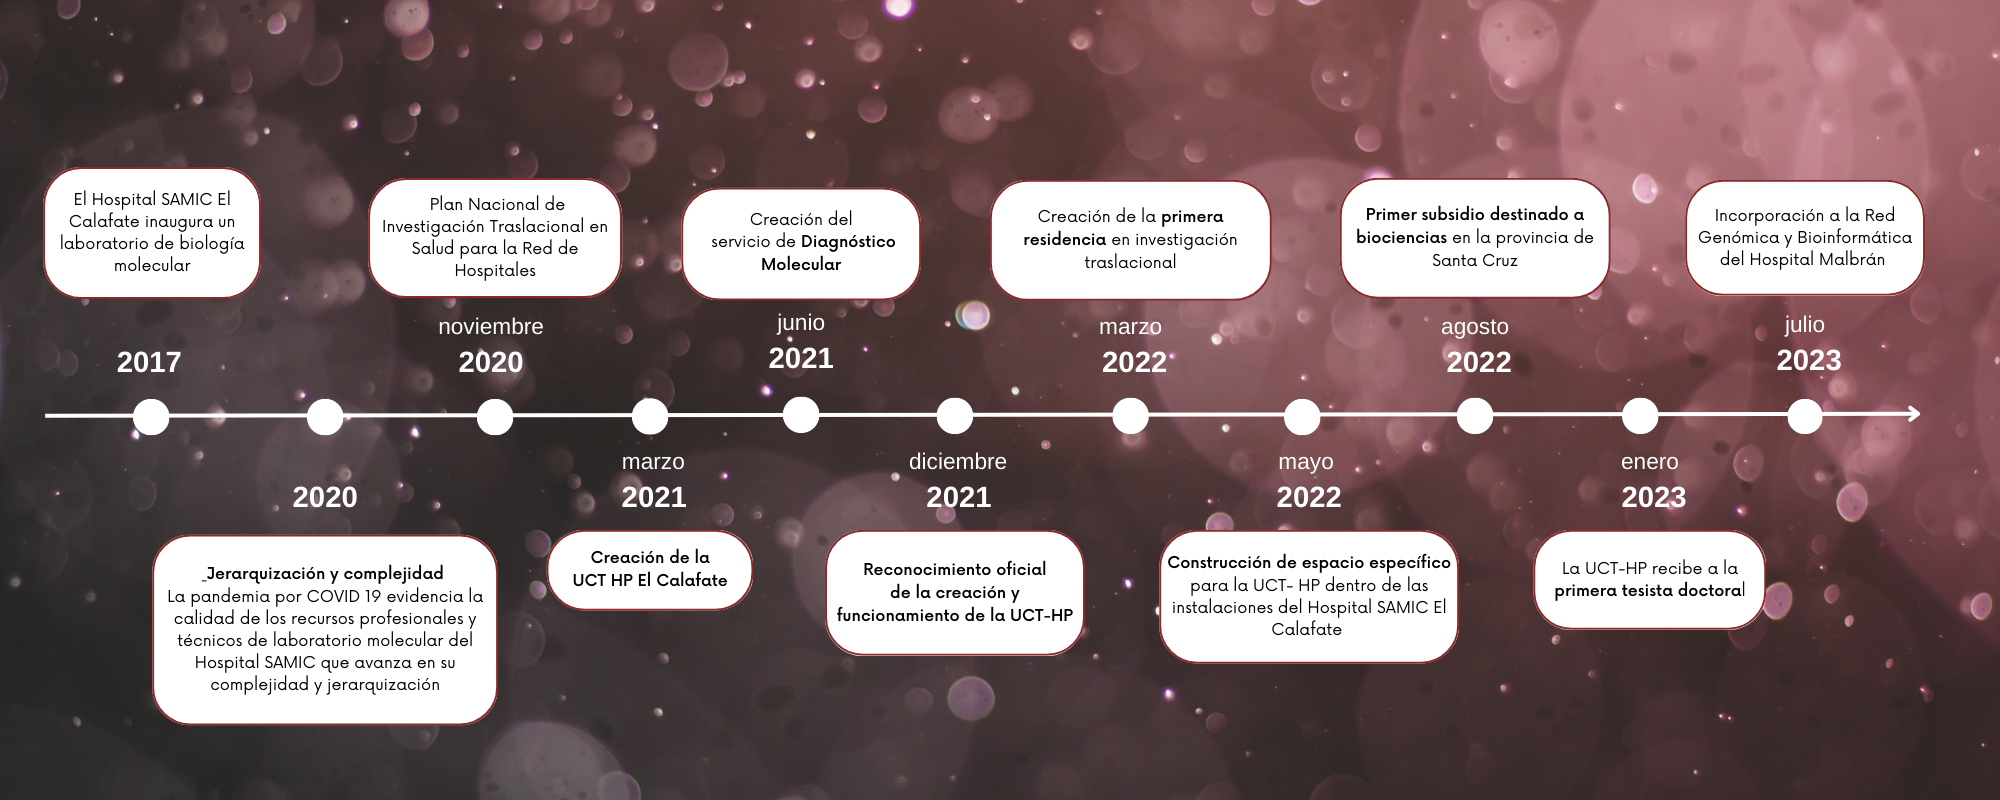
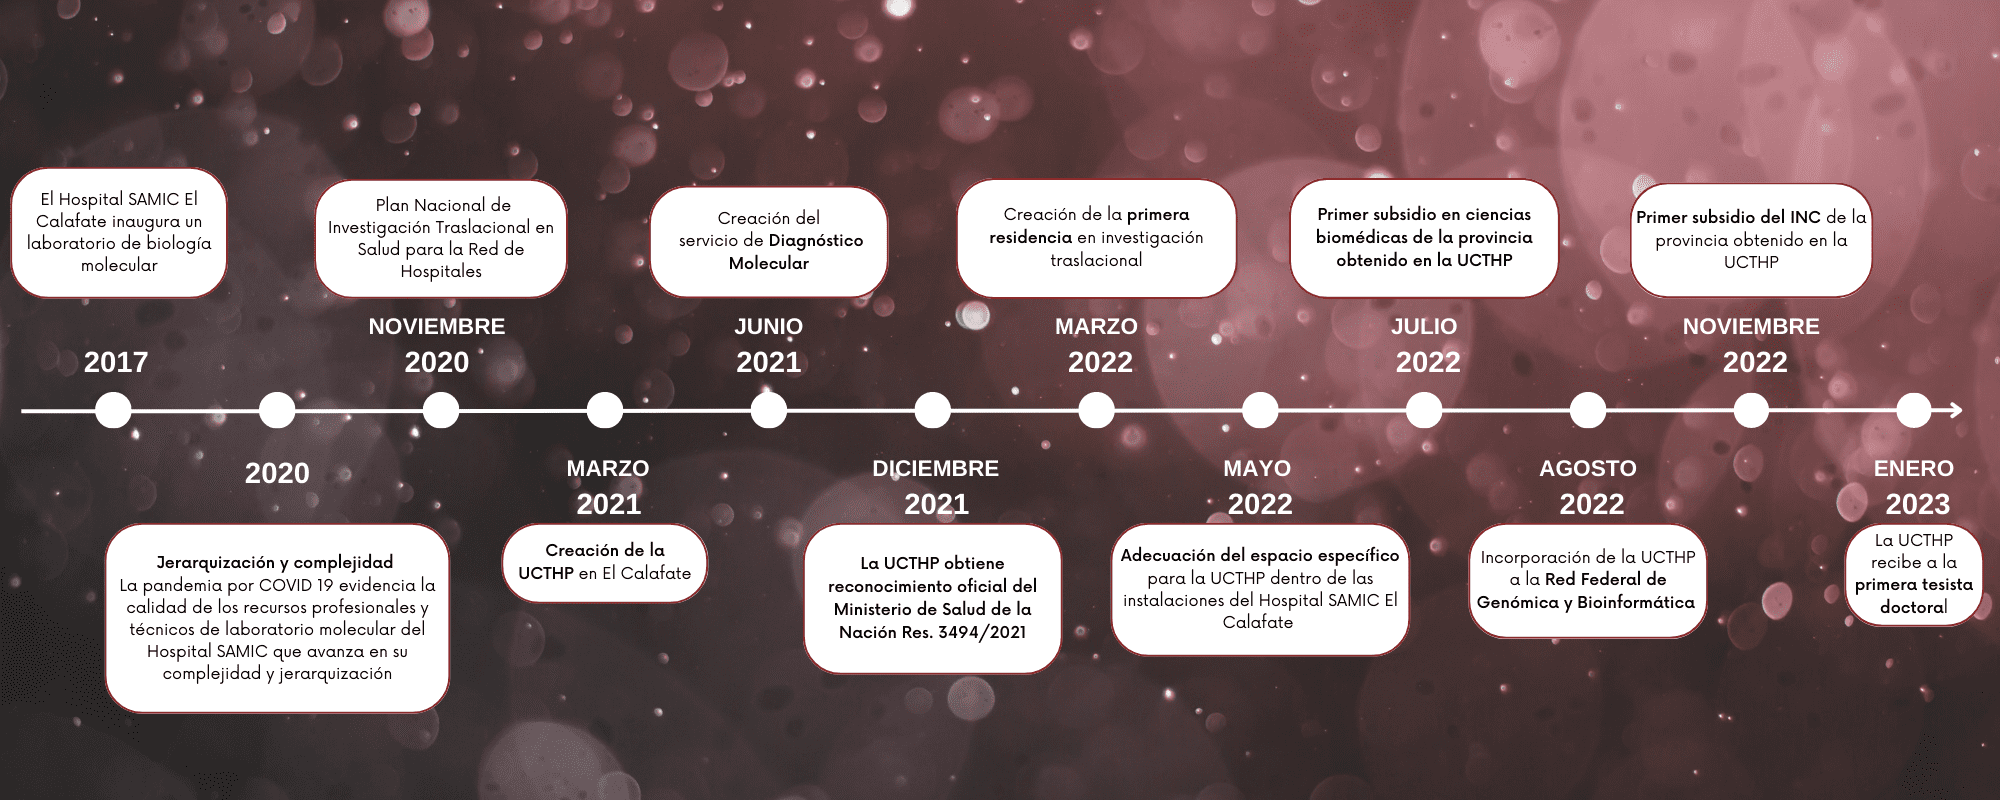
actualizaciones

Changed region(s): [[0.0, 0.1875, 0.992, 0.9062], [0.682, 0.375, 0.775, 0.4688], [0.434, 0.0, 0.465, 0.0312]]

diff --git a/src/data/data.js b/src/data/data.js
@@ -33,8 +33,7 @@ export const noticiasList = [
     description:
       "Se realizó un seminario de Abordaje genético-molecular de la hipoacusia hereditaria en la cohorte Argentina, llevado a delante por la Bioquímica Paula Inés Buonfiglio del laboratorio de fisiología y genética de la audición INGEBI-CONICET./n Dentro del contexto del desarrollo de la UCT-HP que se lleva adelante en el Hospital SAMIC y su inserción en una red de colaboración de entidades y profesionales en genética humana./n En la oportunidad, se presentó un estudio sobre hipoacusias genéticas y se brindaron ejemplos de investigación traslacional en el ámbito de la salud pública./n El Dr. David Bruque destacó que estas actividades de formación están acompañadas de diagnósticos moleculares e investigaciones traslacional que se están llevando a cabo en la región patagónica con el objetivo de acercar las nuevas tecnologías a la población para acortar tiempos de diagnóstico y tratamiento desde una mirada contextualizada de la medicina.",
     created: '21/10/2021',
-    cover:
-      '/assets/images/noticias/211021.jpg',
+    cover: '/assets/images/noticias/211021.jpg',
   },
   {
     id: 5,
@@ -56,35 +55,42 @@ export const noticiasList = [
   },
   {
     id: 7,
-    title: 'Autoridades provinciales visitaron al SAMIC El Calafate',
-    category: 'redes',
+    title: 'La UCT-HP cuenta con la primera Residencia en Investigación Traslacional del país',
+    category: 'formación',
     description:
-      "En una comitiva encabezada por el ministro de Salud y Ambiente de la Provincia de Santa Cruz, Dr. Claudio García, directores de hospitales provinciales visitaron el hospital SAMIC El Calafate e hicieron un recorrido por sus instalaciones./n En el mismo, se destacó el equipamiento y espacio edilicio de la, Unidad de Conocimiento Traslacional (UCT) que recientemente comenzó a funcionar en el SAMIC./n En la oportunidad se resaltó la calidad de instalaciones destinadas a docencia e investigación, kinesiología y sala de simulación, entre otros servicios que crecen en capacidad humana y tecnológica y aportan a la construcción de una red pública en la atención de la salud.",
-    created: '16/09/2022',
-    cover: '/assets/images/noticias/160922.jpg',
+      "El propósito de la creación de la Residencia en Investigación Traslacional es contribuir a la formación de Profesionales de la Salud en Investigación Traslacional. Dado que no existe en la actualidad una especialidad en Investigación Traslacional que pueda certificarse, el profesional será inscripto para optar por el Título de Doctor de la Universidad de Buenos Aires en una de las disciplinas que se desarrollan en la UCT-HP (Genética Humana, Virología, Inmunología, Oncología o Bioinformática)./n El egresado de la Residencia en Investigación Traslacional de la UCT-HP del Hospital Alta Complejidad El Calafate será un profesional que posea los conocimientos, destrezas y actitudes fundamentales que le permitan desarrollarse como Investigador en el ámbito de las Ciencias de la Salud. Será además un profesional con capacidad para integrar grupos interdisciplinarios de trabajo, para llevar adelante una adecuada vinculación de los ámbitos académicos y la práctica clínica. Tendrá el hábito y la necesidad de la formación profesional continua como forma de actualización para ofrecer la alternativa más apropiada a cada desafío./n Los residentes de investigación traslacional tendrán las actividades propias de un estudiante de Doctorado, sumado a una serie de cursos y rotaciones que perfilarán al residente como investigador traslacional, permitiéndole desarrollar las cualidades para realizar Investigación Traslacional en Salud en el ámbito hospitalario. Se coordinará al menos una rotación externa (ya sea en el exterior o en el país) para afianzar las habilidades teóricas, técnicas y académicas del residente.",
+    created: '30/03/2022',
+    cover: '/assets/images/noticias/300322.jpg',
   },
   {
     id: 8,
+    title: 'Nodo de la Red Federal de Genómica y Bioinformática',
+    category: 'redes',
+    description:
+      "Nuestra UCT, fue uno de los 5 centros elegidos para albergar un secuenciador de última generación illumina MiSeq pertenecientes a esta red federal. La UCT-HP es uno de los pocos centros del país con profesionales capaces de realizar secuenciación genómica y análisis bioinformáticos, razón que fundamenta la elección de nuestro Hospital como nodo de dicha red. Otros 24 laboratorios, representando las 24 jurisdicciones provinciales fueron equipados con secuenciadores portátiles y también forman parte de la red. Cabe destacar que, tanto los secuenciadores MiSeq distribuidos en laboratorios, como los 24 equipos portátiles que van a todas las jurisdicciones, fueron adquiridos con los fondos provenientes del “Impuesto solidario a las grandes fortunas”./n Esta red tiene como objetivo desarrollar en todo el país la capacidad estructural y tecnológica para la generación de datos genómicos, junto con la capacitación a los recursos humanos, a los fines de contribuir con la generación de información relevante para la toma de decisiones en el marco de una salud integral./n El equipamiento entregado por el ANLIS-Malbrán comprende tecnología de secuenciación de nueva generación con la cual se puede conocer la secuencia genética de microrganismos (virus, bacterias o cualquier otro organismo) presentes en una amplia variedad de muestras (humanas, animales, alimentarias, de medio ambiente).",
+    created: '09/08/2022',
+    cover: '/assets/images/noticias/090822.jpg',
+  },
+  {
+    id: 9,
     title: 'UCT-HP Patagonia recibió aportes para investigación científica',
     category: 'redes',
     description:
       "A través de la convocatoria PICTO UCTH, La UCT-HP fue reconocida por el programa cuyo objetivo es favorecer la investigación científica y tecnológica en el sistema nacional de salud a fin de generar un alto impacto en la calidad de atención de la salud y la práctica clínica hospitalaria./n Mediante la Agencia Nacional de Promoción de la Investigación, el Desarrollo Tecnológico y la Innovación (AGENCIA I+D+i), a través del Fondo para la Investigación Científica y Tecnológica (FONCyT), la convocatoria financiará el proyecto presentado por los investigadores e integrantes de la UCT-HP bajo la dirección del Dr. Guillermo Corró, cuyo objetivo es el estudio genómico e inmunológico de pacientes con respuestas diversas a la vacunación con el fin último de generar nuevas fórmulas vacunales contra beta-coronavirus. Este tipo de proyectos de producción de conocimientos, formación, capacitación e implementación de resultados en los servicios de salud son imprescindibles para la continuidad de una práctica clínica de alta complejidad y una visión de Salud Pública de excelencia. /n El acto de adjudicación, que incluyó a nueve hospitales nacionales y se realizó en el Hospital Nacional en Red Lic. Laura Bonaparte, fue encabezado por la ministra de Salud de la Nación Carla Vizzoti y el ministro de Ciencia y Tecnología, Daniel Filmus./n Epígrafe:  Lic. Fernando Peirano, presidente de la Agencia Nacional de Promoción de la Investigación, el Desarrollo Tecnológico y la Innovación. Dra. Carla Vizzotti, ministra de Salud de la Nación. Daniel Filmus, ministro de Ciencia, Tecnología e Innovación de la Nación. Dr. Guillermo Corró y Dr. Carlos David Bruque de la UCT HP del Hospital SAMIC. Dra. Verónica De Cristófaro, subsecretaria de Articulación Federal en el Ministerio de Salud de la Nación.",
     created: '23/08/2022',
-    cover:
-      '/assets/images/noticias/230822.jpg',
+    cover: '/assets/images/noticias/230822.jpg',
   },
   {
-    id: 9,
+    id: 10,
     title: 'UCT-HP Patagonia participó en la Reunión Anual de las Sociedades de Biociencias 2022',
     category: 'divulgación',
     description:
       "La UCT-HP Patagonia participó de la Reunión Anual de la Sociedad Argentina de Investigación Clínica que se realizó del 16 al 19 de noviembre en la ciudad de Mar del Plata./n Los investigadores del área de genética presentaron “Genéticos moleculares y bioinformáticos en pacientes con antecedentes familiares de muerte súbita”, mientras que los investigadores del área de Inmunología y Virología Molecular presentaron el estudio sobre la inmunización pasiva contra la proteína Nef del VIH-1 en niños infectados verticalmente, y la relación con la progresión a SIDA./n En la oportunidad, el Dr. Bruque fue nombrado Coordinador del Área de Genética Humana de la Sociedad Argentina de Investigación Clínica para el período 2022-2023.",
     created: '24/11/2022',
-    cover:
-      '/assets/images/noticias/241122.jpg',
+    cover: '/assets/images/noticias/241122.jpg',
   },
   {
-    id: 10,
+    id: 11,
     title: 'Una médica de El Calafate ingresó al CONICET como Investigadora en Salud',
     category: 'divulgación',
     description:
@@ -93,15 +99,23 @@ export const noticiasList = [
     cover: '/assets/images/noticias/110123.jpg',
   },
   {
-    id: 11,
+    id: 12,
+    title: 'La UCT-HP recibió a la primera becaria doctoral',
+    category: 'formación',
+    description: 'Como parte de un programa de colaboración científica entre investigadores de la UCT-HP con el equipo de la Dra. Betina Orman de la Facultad de Odontología de la UBA, la Odon. Angélica Castro Escalante realizó una etapa de formación en el contexto de su tesis doctoral en las instalaciones del Servicio de Diagnóstico Molecular de la UCT-HP./n De esta manera, UCT-HP y el Hospital en su conjunto, recibieron por primera vez un estudiante de doctorado. La profesional se insertó en un programa de formación dirigido por los profesionales e investigadores de la UCT, Téc Esp. M.P. Bellazzi, la Bioq. R. Navarro, el Dr. C.D. Bruque y el Dr. G. Corró. La formación se continúa luego en forma virtual, manteniendo las colaboraciones y vinculaciones tecnológicas con el equipo de la Dra Orman, fortaleciendo así, los lazos con la Universidad de Buenos Aires./n La formación de recursos humanos, bajo el entramado de redes de colaboración son uno de los pilares de la tarea de Investigación en todas sus formas. ',
+    created: '04/01/2023',
+    cover: '/assets/images/noticias/040123.jpg',
+  },
+  {
+    id: 13,
     title: ' La UCTHP Obtuvieron becas en la categoría Multicéntricos de la Convocatoria a las Becas Salud Investiga 2022-2023',
     category: 'redes',
     description: 'Se trata de la creación e implementación de una red patagónica de atención, asesoramiento y diagnóstico genético para garantizar el acceso a la salud en el contexto de hospitales públicos generadores de conocimiento en la región patagónica./n El proyecto, presentado desde la UCTHP apunta a generar protocolos de procedimientos para la coordinación de muestras y asesoramiento genético, evaluar pacientes inter-provinciales en forma remota y estudiar una cohorte de 200 pacientes y familiares en el marco de la investigación traslacional.',
-    created: '13/02/23',
+    created: '13/02/2023',
     cover: '/assets/images/noticias/130223.jpg',
   },
   {
-    id: 12,
+    id: 14,
     title: 'El Ministerio de Salud creó la Red Nacional De Unidades De Conocimiento Traslacional Hospitalarias (Red UCTH)',
     category: 'redes',
     description:
@@ -110,19 +124,46 @@ export const noticiasList = [
     cover: '/assets/images/noticias/230223.jpg',
   },
   {
-    id: 13,
+    id: 15,
     title: '“Un país, una respuesta”, a tres años del primer caso de COVID',
     category: 'redes',
     description: 'El día 3 de Marzo, en el Centro Cultural Kirchner (CCK) de la Ciudad de Buenos Aires, se realizó un encuentro federal, por cumplirse 3 años de la detección del primer caso de SARS-CoV-2 en Argentina, bajo el lema: "UN PAIS, UNA RESPUESTA". Esta jornada, coordinada por el Ministerio de Salud de la Nación, contó con la presencia de ministros y representantes de todas las provincias, así como la Ministra de Salud de la Nación, Dra. Carla Vizzotti, Secretario de Calidad, Dr. Alejandro Collia y otras autoridades Nacionales. El Cierre estuvo a cargo del Sr Presidente de la Nación, Dr. Alberto Fernández. /n En el contexto de éste lema, cada mesa temática, abordó las vivencias de la pandemia desde distintos puntos de vista, así se discutió sobre la capacidad de respuesta de nuestro país a nivel sanitario y de emergencias, tanto desde el sector público como del sector privado, haciendo hincapié en la articulación entre ambos sectores. /n El Dr. Guillermo Corró, investigador de la UCT-HP del SAMIC El Calafate, formó parte de la mesa "Protagonistas", moderada por la Dra Analía Rearte, Directora Nacional de Epidemiología. El mismo contó experiencias vividas durante la pandemia, la importancia de una salud pública con un accionar rápido en la pandemia, la necesidad de profesionales capacitados y de un sistema de salud fuerte. Explicó el valor de contar con capacidad de generar conocimientos y tecnologías de calidad, en un contexto público y federal, siendo el principal fuerte durante la primera fase de la pandemia, cuando un diagnóstico a tiempo hacía la diferencia en cuanto a las medidas epidemiológicas. Asimismo, remarcó la necesidad de capitalizar la pandemia en la generación de políticas novedosas, y en este sentido, introdujo el interés por la pertenencia de la UCT-HP del Hospital SAMIC de EL Calafate a dos redes nacionales y federales de creación post pandemia, la Red Nacional de Genómica y Bioinformática, con centro en el ANLIS-Malbran, bajo la dirección de la Dra Josefina Campos, y la Red Nacional de Unidades de Conocimiento Traslacional, con centro en la Dirección de Difusión del Conocimiento del Ministerio de Salud de la Nación, cuya coordinación realiza la Mg Daniela Álvarez. A través de dichas redes, hoy, la generación de conocimientos en Salud, el alcance de la tecnología de última generación y la Salud Pública de calidad llegan a los puntos más alejados del AMBA de forma Federal.',
-    created: '03/03/23',
+    created: '03/03/2023',
     cover: '/assets/images/noticias/030323.jpg',
   },
   {
-    id: 14,
+    id: 16,
     title: 'UCT-HP recibió otro subsidio para investigación científica',
     category: 'redes',
     description: 'A través de la convocatoria “ASISTENCIA FINANCIERA VII A PROYECTOS DE INVESTIGACIÓN EN CÁNCER DE ORIGEN NACIONAL” del Instituto Nacional del Cáncer, la UCT-HP volvió a ser reconocida, recibiendo un subsidio de $8.000.000 para llevar a cabo el proyecto “Caracterización genómica de biopsias de cáncer de mama de pacientes de la Patagonia Austral para el estudio de perfiles moleculares: correlación con variables epidemiológicas, de ancestría y de progresión tumoral”./n El proyecto fue presentado por los investigadores e integrantes de la UCT-HP bajo la dirección del Dr. Facundo Pelorosso, cuyo objetivo es el estudio genómico y de ancestría de tumores de mama, consistirá en un aporte de gran valía en el abordaje de pacientes con dicha patología en nuestra región. Este tipo de proyectos de producción de conocimientos, formación, capacitación e implementación de resultados en los servicios de salud son imprescindibles para la continuidad de una práctica clínica de alta complejidad y una visión de Salud Pública de excelencia.',
-    created: '15/03/23',
+    created: '15/03/2023',
     cover: '/assets/images/noticias/150323.jpg',
+  },
+  {
+    id: 17,
+    title: 'Primera Jornada de Investigación en Disparidades en Salud',
+    category: 'divulgación',
+    description:
+      "La Dra. María Victoria Salgado participó como disertante de la 1º Jornada de Investigación en Disparidades en Salud, realizada el 17 de marzo en la Ciudad de Buenos Aires./n En esa oportunidad, presentó los resultados de un trabajo de investigación que evalúa la contribución de los factores de riesgo cardiovascular tradicionales en el riesgo de desarrollar enfermedad coronaria en comparación con factores no tradicionales ligados al estatus socioeconómico en Argentina, y brindó una charla introductoria sobre qué son y para qué sirven los modelos de simulación por computadora en la investigación en salud pública.",
+    created: '17/03/2023',
+    cover: '/assets/images/noticias/170323.jpg',
+  },
+  {
+    id: 18,
+    title: 'Encuentro Federal de Talento Humano en Salud “Día Internacional de la Enfermería”',
+    category: 'divulgación',
+    description:
+      "El día 12 de mayo, profesionales de la salud de todo el país se reunieron en el Encuentro Federal de Talento Humano en Salud realizado en el Hospital de Pediatría “Prof Dr Juan P Garrahan” SAMIC conmemorando el Día Internacional de la Enfermería En éste contexto, la Licenciada en Enfermeria Sabrina Soledad Fernández discutió sobre el rol de los profesionales de enfermería en el campo de la Investigación Traslacional, exponiendo las experiencias en los distintos proyectos que se están llevando adelante desde la UCTHP, en la mesa redonda “Gestión del Conocimiento: Redes, interdisciplina y abordajes innovadores del conocimiento en salud.” Experiencias de los equipos que integran el Plan Nacional de Investigación Traslacional (Avances y Desafíos). Junto a ella, profesionales de otras jurisdicciones y autoridades del Ministerio de Salud de la Nación, interpelaron a los enfermeros en su día a sumarse en tareas de investigación y desarrollo en los Hospitales, remarcando el irremplazable aporte que su labor como trabajadores de la Salud implica.",
+    created: '12/05/2023',
+    cover: '/assets/images/noticias/120523.jpg',
+  },
+  {
+    id: 19,
+    title: 'El Test de Sudor se vuelve a realizar en la provincia de Santa Cruz',
+    category: 'diagnóstico',
+    description:
+      "El Servicio de Diagnóstico Molecular de la UCT-HP del Hospital El Calafate SAMIC comenzó a realizar estudios de test de sudor en la provincia de Santa Cruz./n Hace ya varios años, este diagnóstico se había dejado de realizar en la provincia./n Desde el mes de mayo en el hospital se vuelve a tener esta técnica diagnóstica para los pacientes con sospecha de fibrosis quística, de esta forma no serán necesarias las derivaciones a CABA para estos estudios./n La realización del test en nuestras instalaciones se logró gracias a la capacitación de Paola Bellazzi, Técnica Especialista en Biología Molecular y Genética, quien recibió formación del equipo del centro Nacional de Genética Médica del ANLIS-Malbrán, haciendo de nuestro laboratorio, la referencia de la provincia para dicho test.",
+    created: '19/05/2023',
+    cover: '/assets/images/noticias/190523.jpg',
   }
 ];

diff --git a/src/components/institucional/Historia.jsx b/src/components/institucional/Historia.jsx
@@ -5,6 +5,7 @@ const Historia = () => {
   return (
     <div className="container mt-5">
         <h2>Nuestra Historia</h2>
+        <h3>Primeros logros de la UCTHP</h3>
         <div className="row mt-5">
           <img src={historia} className="fluid-img" alt="nuestra historia" />
         </div>
